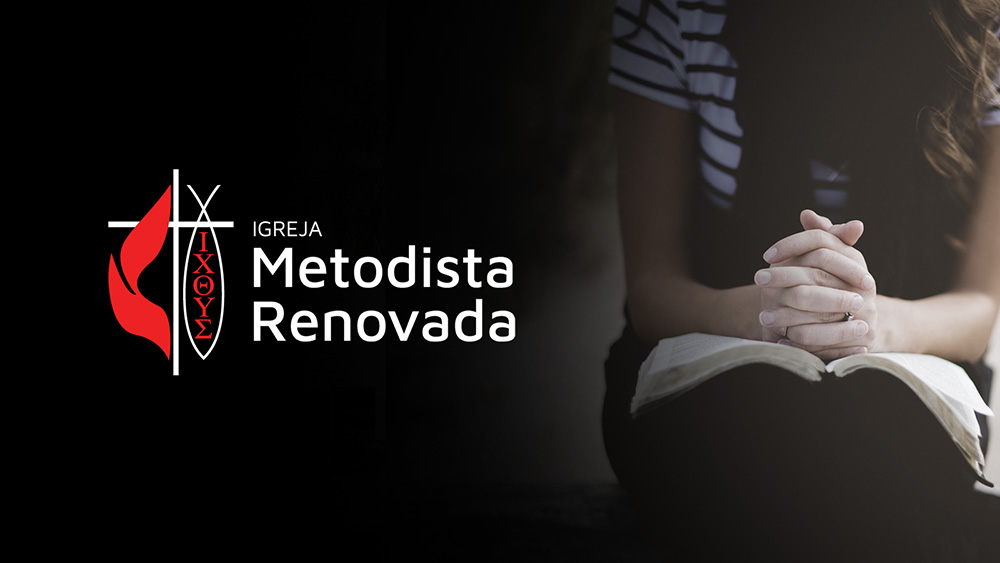
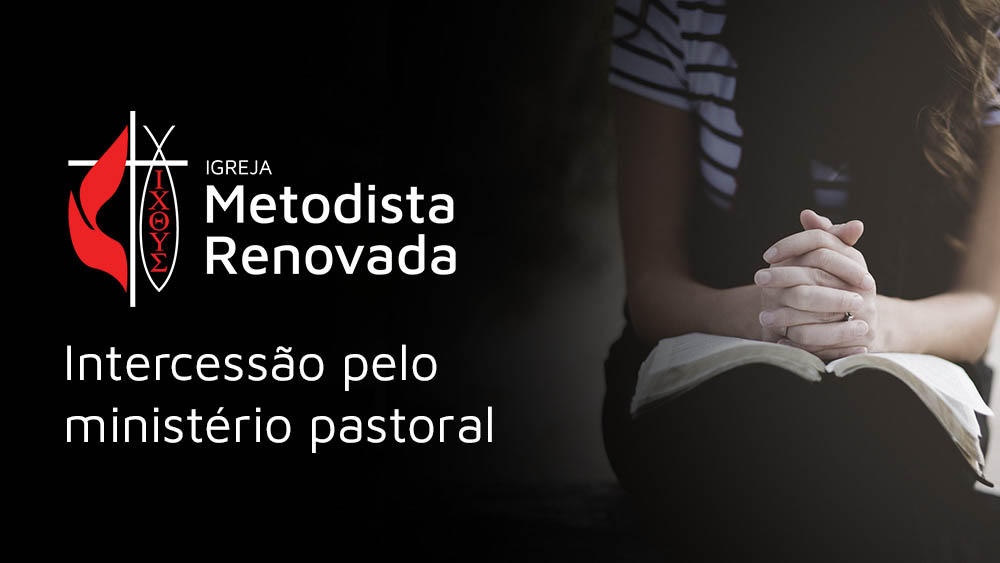
Update preyer timer

Changed region(s): [[0.062, 0.2114, 0.527, 0.6945], [0.062, 0.7247, 0.496, 0.8153]]

diff --git a/orar.html b/orar.html
@@ -21,15 +21,15 @@
 
     <link href="/assets/styles-output.css" rel="stylesheet">
 
-    <title>Ore pela Igreja Metodista Renovada</title>
+    <title>Intercessão pelo ministério pastoral - Igreja Metodista Renovada</title>
 
     <script src="https://cdnjs.cloudflare.com/ajax/libs/background-timer/1.0.0/background-timer.min.js"></script>
 
     <!-- Facebook Meta Tags -->
     <meta property="og:url" content="https://metodista.org/orar">
     <meta property="og:type" content="website">
-    <meta property="og:title" content="Ore pela Igreja Metodista Renovada">
-    <meta property="og:description" content="Convidamos você a dedicar um momento do seu dia para orar pelas demandas da nossa igreja. Participe conosco desse movimento de oração!">
+    <meta property="og:title" content="Intercessão pelo ministério pastoral - Igreja Metodista Renovada">
+    <meta property="og:description" content="Convidamos você a dedicar um momento do seu dia para interceder pelo ministério pastoral da nossa igreja. Ore pelo fortalecimento, sabedoria e discernimento dos nossos pastores, para que continuem a guiar a igreja segundo a vontade de Deus, com amor, coragem e dedicação. Sua intercessão é essencial para que eles possam cumprir sua missão com excelência e dependência total do Senhor.">
     <meta property="og:image" content="https://metodista.org/assets/igreja-oracao.jpg">
     <meta property="og:locale" content="pt_BR"/>
 
@@ -37,8 +37,8 @@
     <meta name="twitter:card" content="summary_large_image">
     <meta property="twitter:domain" content="metodista.org">
     <meta property="twitter:url" content="https://metodista.org/orar">
-    <meta name="twitter:title" content="Ore pela Igreja Metodista Renovada">
-    <meta name="twitter:description" content="Convidamos você a dedicar um momento do seu dia para orar pelas demandas da nossa igreja. Participe conosco desse movimento de oração!">
+    <meta name="twitter:title" content="Intercessão pelo ministério pastoral - Igreja Metodista Renovada">
+    <meta name="twitter:description" content="Convidamos você a dedicar um momento do seu dia para interceder pelo ministério pastoral da nossa igreja. Ore pelo fortalecimento, sabedoria e discernimento dos nossos pastores, para que continuem a guiar a igreja segundo a vontade de Deus, com amor, coragem e dedicação. Sua intercessão é essencial para que eles possam cumprir sua missão com excelência e dependência total do Senhor.">
     <meta name="twitter:image" content="https://metodista.org/assets/igreja-oracao.jpg">
 
     <style>
@@ -51,13 +51,15 @@
 
     <div class="max-w-[700px] m-auto pt-3 text-white text-center">
 
-        <h1 class="text-3xl mt-10 mb-7 font-bold">Ore pela a igreja</h1>
+        <h1 class="text-3xl mt-10 mb-7 font-bold">Intercessão pelo ministério pastoral</h1>
 
         <div data-timer-screen class="flex flex-col my-10 gap-5 justify-center max-w-[300px] m-auto">
 
             <button data-timer-init
                 class="bg-[#00ffc2] m-auto text-black font-bold w-[220px] h-[220px] p-10 rounded-full">Iniciar
                 Oração</button>
+
+            <p data-welcome-message>O ministério pastoral é um chamado de grande responsabilidade e precisa ser sustentado em oração. Ore pelo fortalecimento, sabedoria e discernimento dos nossos pastores, para que continuem a guiar a igreja segundo a vontade de Deus, com amor, coragem e dedicação. Sua intercessão é essencial para que eles possam cumprir sua missão com excelência e dependência total do Senhor.</p>
 
             <div data-timer class="hidden py-10 text-5xl">00:00:00</div>
 
@@ -139,6 +141,9 @@
 
         function hideStartButton() {
             timerInit.classList.add('hidden');
+
+            // Hide the welcome message
+            document.querySelector('[data-welcome-message]').classList.add('hidden');
         }
 
         function showStartButton() {

diff --git a/index.html b/index.html
@@ -28,7 +28,7 @@
 
     <!-- Links-->
     <!--a href="https://metodista.org/retiro" class="links">Inscrição para o Retiro</a-->
-    <a href="https://metodista.org/orar" class="links">Ore pela igreja</a>
+    <!-- <a href="https://metodista.org/orar" class="links">Ore pela igreja</a> -->
     <a href="https://discipulado.metodista.org/" class="links">Curso de Discipulado</a>
     <a href="https://metodista.org/oferta" class="links">Ofertas</a>
     <a href="https://www.facebook.com/edmagno.vieiradasilva" class="links">Facebook</a>
